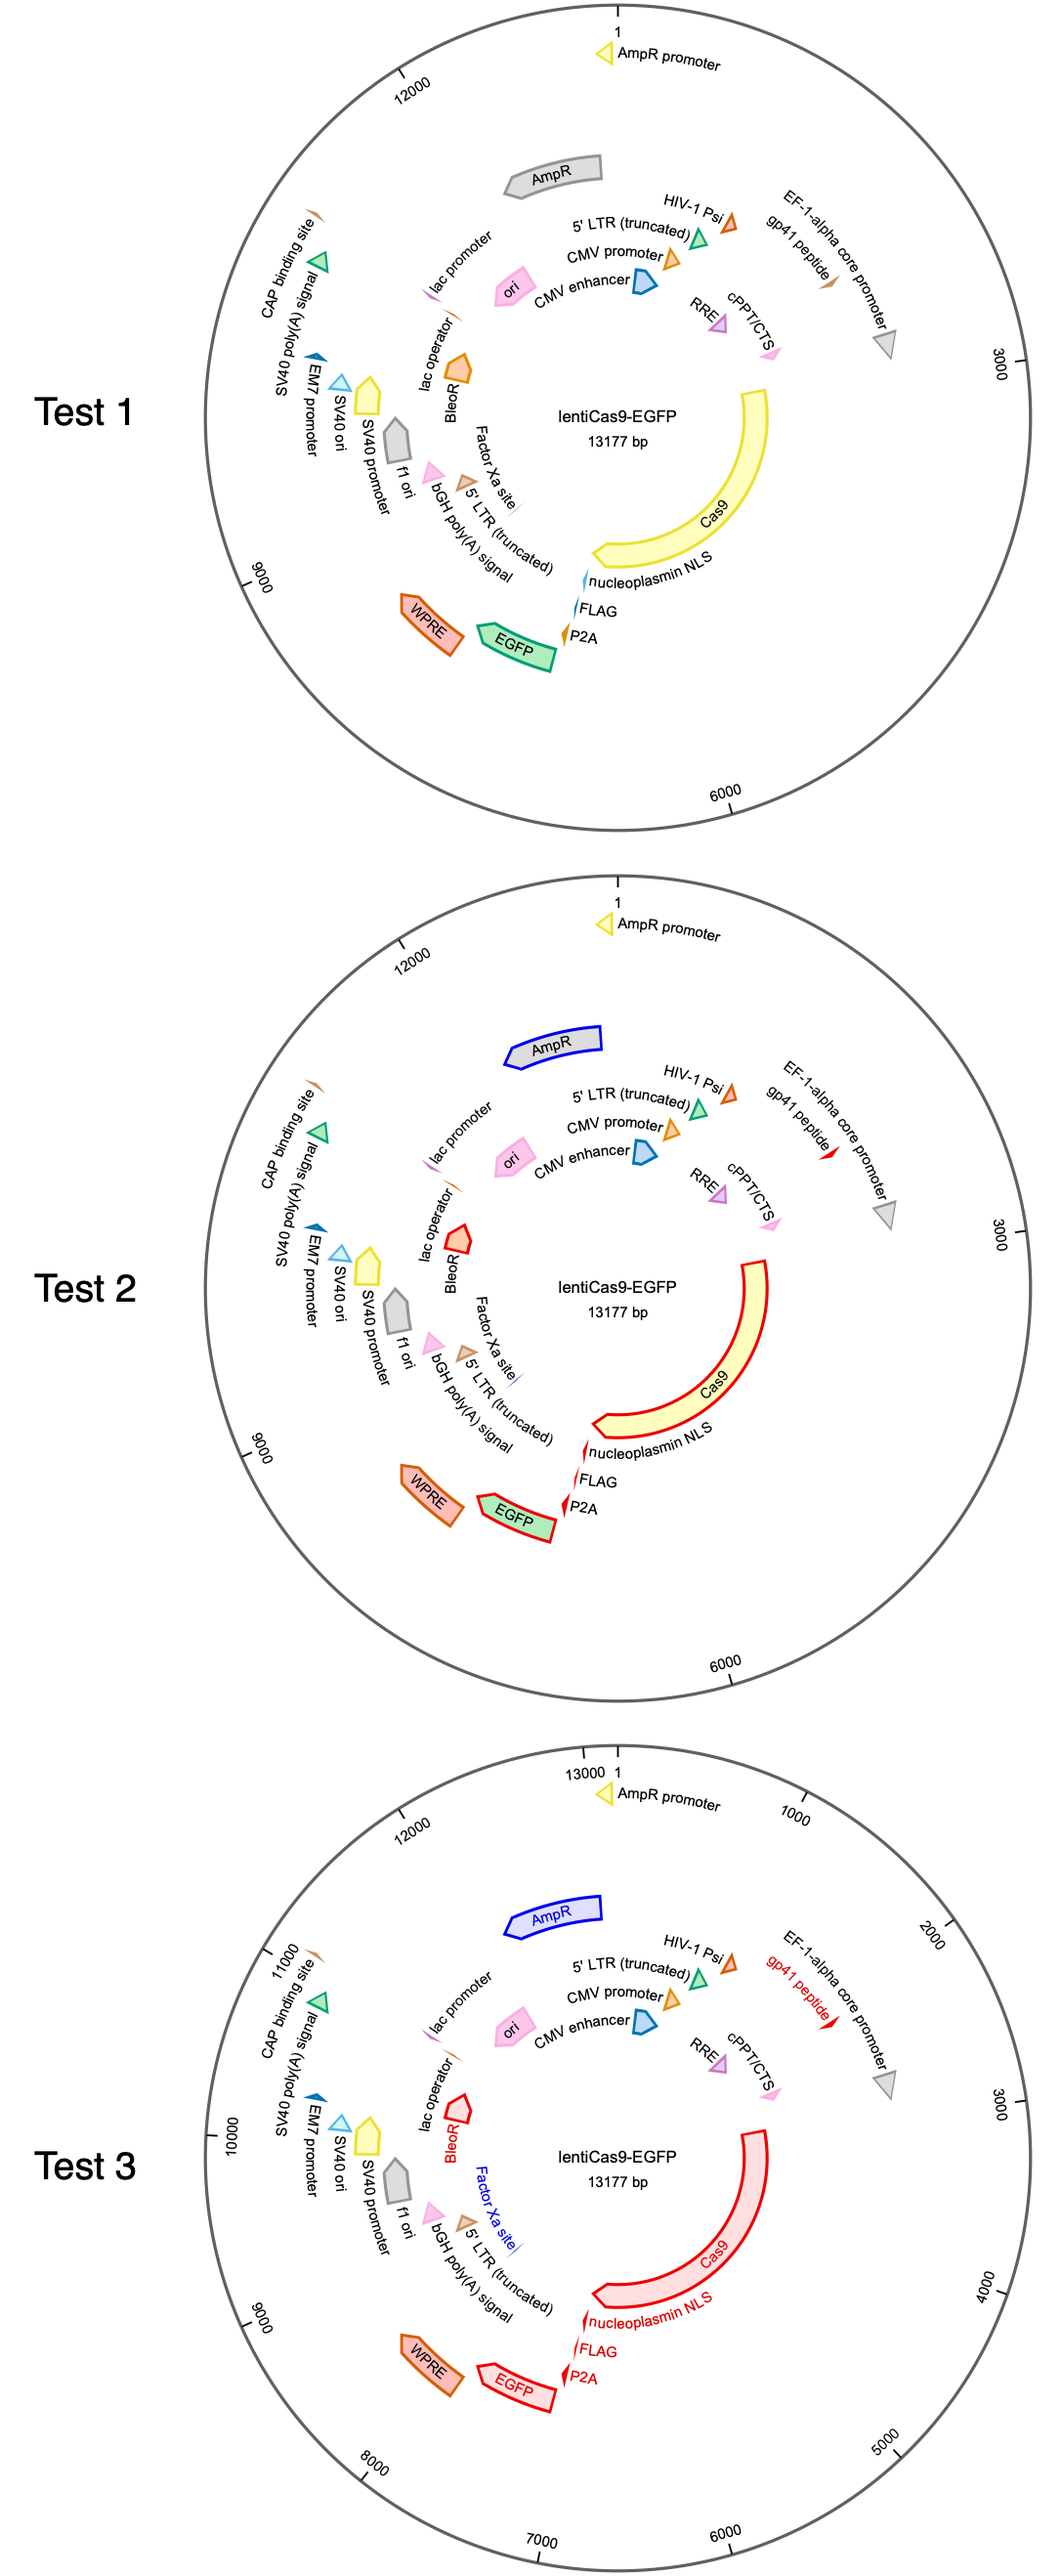
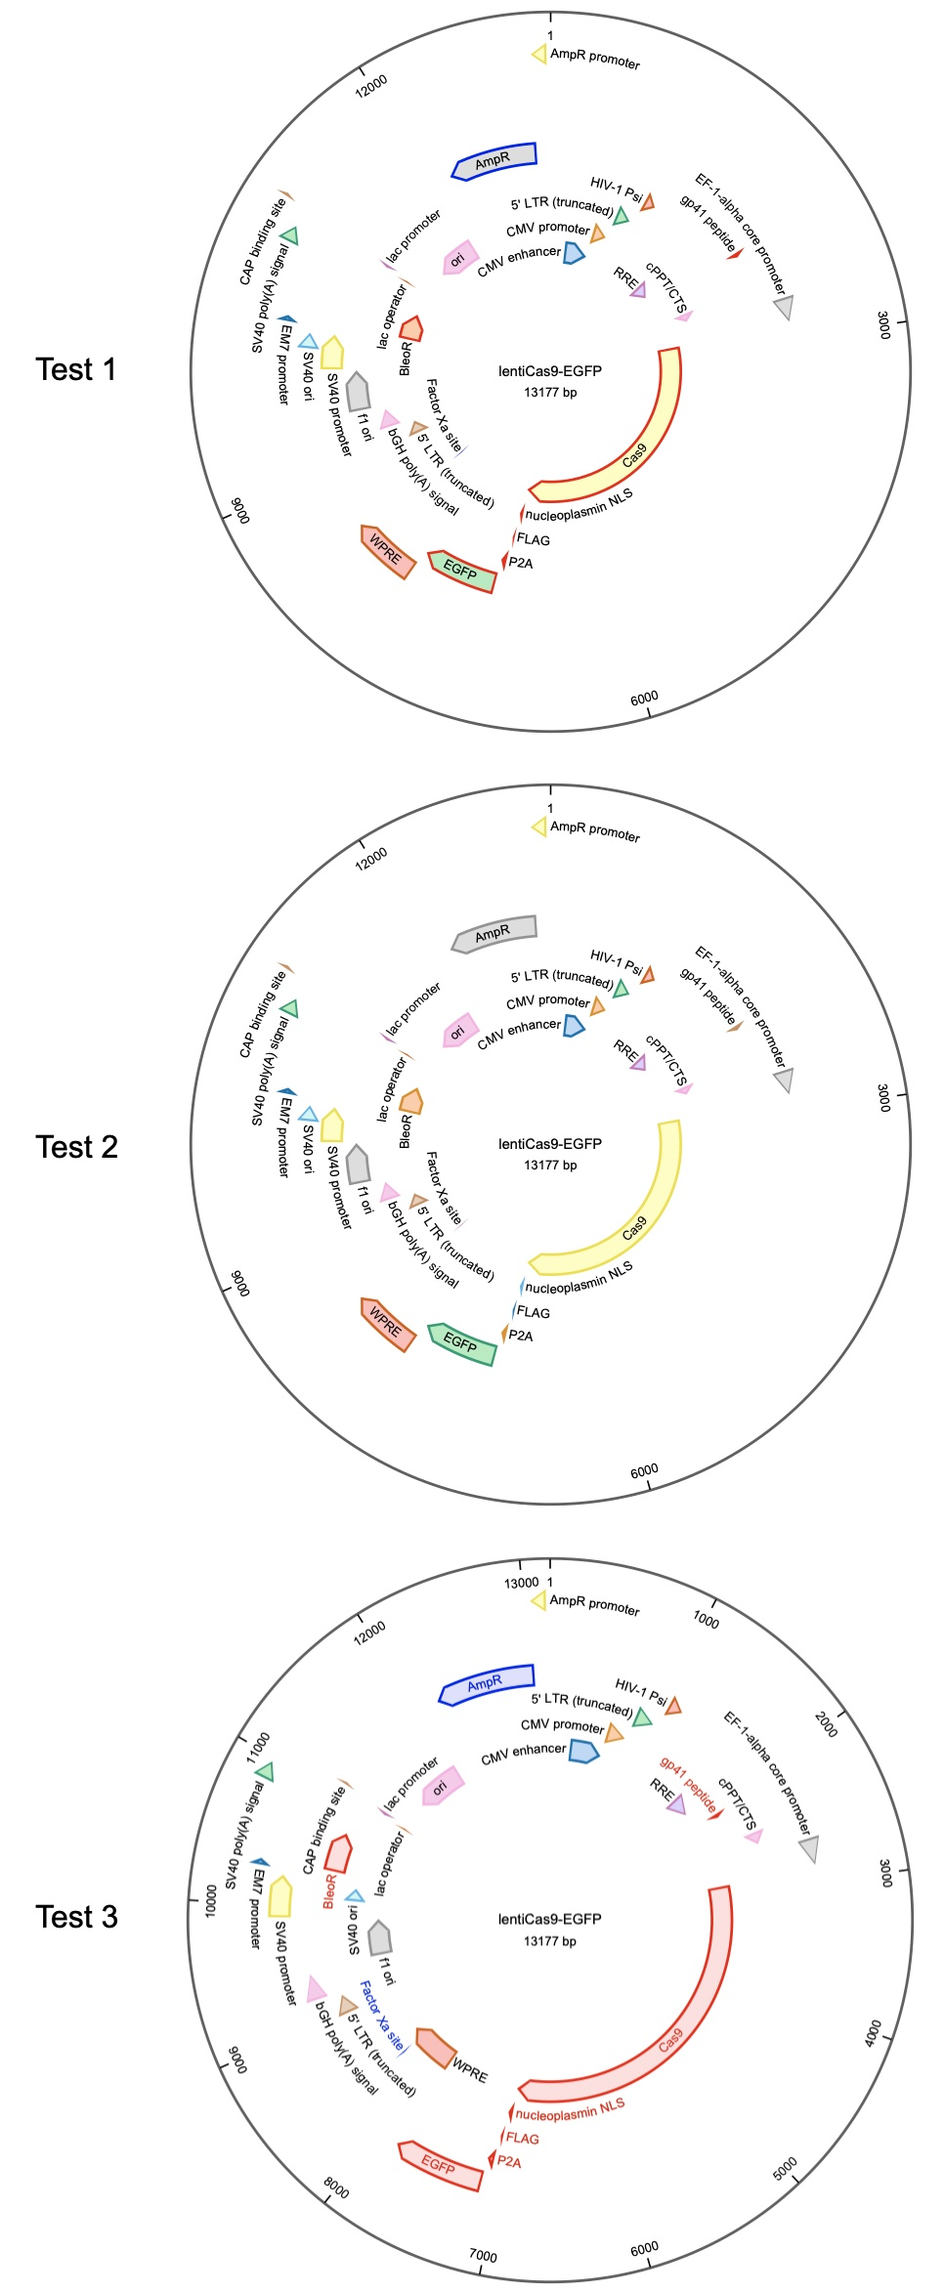
Modified example image

diff --git a/README.md b/README.md
@@ -43,7 +43,7 @@ You can install this library using the following single command:
     fig, ax = pv.visualize(record, feature_list=feats, edgecolor=edgecolors, title="lentiCas9-EGFP")
     fig.savefig("test2.pdf") 
     
-    fig, ax = pv.visualize(record, feature_list=feats, facecolor=facecolors, edgecolor=edgecolors, labelcolor=labelcolors, title="lentiCas9-EGFP", tick_interval=1000)
+    fig, ax = pv.visualize(record, feature_list=feats, facecolor=facecolors, edgecolor=edgecolors, labelcolor=labelcolors, title="lentiCas9-EGFP", inner_diameter=500, tick_interval=1000)
     fig.savefig("test3.pdf") 
 ```
 
